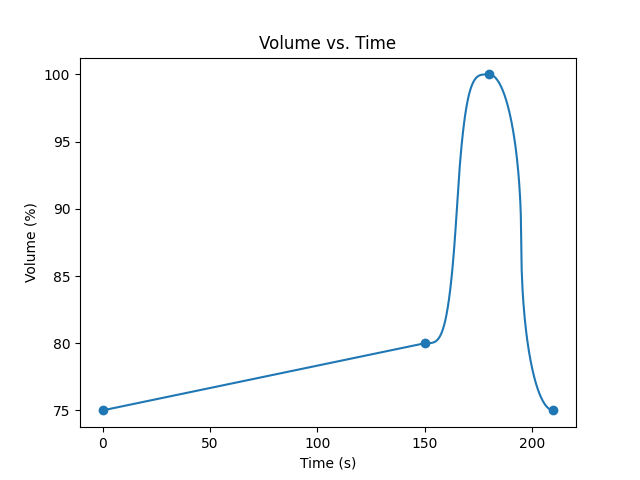
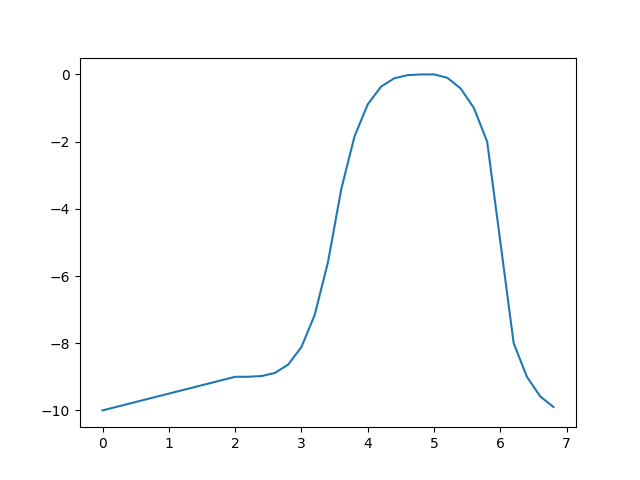
made changes

diff --git a/utils.py b/utils.py
@@ -1,30 +1,84 @@
 from easing_functions import *
+import numpy as np
+import math
+from ctypes import cast, POINTER
+from comtypes import CLSCTX_ALL
+from pycaw.pycaw import AudioUtilities, IAudioEndpointVolume
+
+devices = AudioUtilities.GetSpeakers()
+interface = devices.Activate(IAudioEndpointVolume._iid_, CLSCTX_ALL, None)
+volume = cast(interface, POINTER(IAudioEndpointVolume))
+volume.GetMute()
+volume.GetMasterVolumeLevel()
+volume.GetVolumeRange()
+
+stepSize = 0.2
+x = []
+y = []
 
 
-def getVolume(time):
-    return 50
+def init(controlPoints):
+    maxTime = controlPoints[len(controlPoints) - 1][0]
+    # len -1 because len() starts with 1 not 0
+    timeArray = np.arange(0, maxTime, stepSize)
+    global x
+    global y
+    x = timeArray.copy()
+    y = timeArray.copy()
+    for i in range(len(x)):
+        y[i] = calculateVolume(x[i], controlPoints)
+    return [x, y]
 
 
-def setVolume(volume):
-    print("setting volume to:", volume)
+def calculateVolume(time, controlPoints):
+    leftTime = 0
+    rightTime = 0
+    leftVolume = 0
+    rightVolume = 0
+    interpType = 0
+    maxTime = len(controlPoints)
+    for i in range(maxTime):
+        leftPoint = i
+        rightPoint = i + 1
+        if time >= controlPoints[leftPoint][0] and time < controlPoints[rightPoint][0]:
+            interpType = controlPoints[leftPoint][2]
+
+            leftTime = controlPoints[leftPoint][0]
+            rightTime = controlPoints[rightPoint][0]
+
+            leftVolume = controlPoints[leftPoint][1]
+            rightVolume = controlPoints[rightPoint][1]
+            break
+    return interp(leftTime, leftVolume, rightTime, rightVolume, time, interpType)
 
 
-"""
-def interp(leftTime, leftVol, rightTime, rightVol, currentTime, interpType):
+def getVolume(time):  # time = currentTime-startTime
+    global y
+    # index=(timeRoundedDown)/stepSize
+    index = math.trunc(time / stepSize) - 1
+    return round(y[index], 4)
+
+
+def setVolume(vol):
+    global volume
+    volume.SetMasterVolumeLevel(vol, None)
+    print(vol)
+
+
+def interp(leftTime, leftVolume, rightTime, rightVolume, currentTime, interpType):
 
     if interpType == 0:
-        a = LinearInOut(leftVol, rightVol, rightTime - leftTime)
+        a = LinearInOut(leftVolume, rightVolume, rightTime - leftTime)
         return a(currentTime - leftTime)
     elif interpType == 1:
-        a = SineEaseInOut(leftVol, rightVol, rightTime - leftTime)
+        a = SineEaseInOut(leftVolume, rightVolume, rightTime - leftTime)
         return a(currentTime - leftTime)
     elif interpType == 2:
-        a = CircularEaseInOut(leftVol, rightVol, rightTime - leftTime)
+        a = CircularEaseInOut(leftVolume, rightVolume, rightTime - leftTime)
         return a(currentTime - leftTime)
     elif interpType == 3:
-        a = QuarticEaseInOut(leftVol, rightVol, rightTime - leftTime)
+        a = QuarticEaseInOut(leftVolume, rightVolume, rightTime - leftTime)
         return a(currentTime - leftTime)
     elif interpType == 4:
-        a = ExponentialEaseInOut(leftVol, rightVol, rightTime - leftTime)
+        a = ExponentialEaseInOut(leftVolume, rightVolume, rightTime - leftTime)
         return a(currentTime - leftTime)
-"""

diff --git a/volumeController.py b/volumeController.py
@@ -2,18 +2,28 @@ import time
 import utils
 from easing_functions import *
 import numpy as np
-import matplotlib.pyplot as plt
+
 
 # points are in the form of
-# [time,volume,interpolation type]
-# interpType: 0=Linear,1=Quadratic,2=Circular
-controlPoints = [[0, 75, 0], [150, 80, 3], [180, 100, 2], [210, 75, -1]]
+# [time, volume, interpType]
+# interpType: 0=Linear,1=SinInOut,2=CircularInOut,3=QuarticEaseInOut,4=ExponentialEaseInOut
+# controlPoints = [[0, -10, 0], [2, -9, 3], [5, 0, 2], [7, -10, -1]]
+controlPoints = [[0, -10, 1], [2, 0, 1], [4, -10, 1], [6, 0, -1]]
 startTime = time.time()
 
+
+def restartTime():
+    global startTime
+    startTime = time.time()
+
+
+dataPlot = utils.init(controlPoints)
 
 while True:
     currentTime = time.time()
     timeElapsed = currentTime - startTime
+    if timeElapsed >= controlPoints[len(controlPoints) - 1][0]:
+        restartTime()
     newVolume = utils.getVolume(timeElapsed)
     utils.setVolume(newVolume)
-    time.sleep(1)
+    time.sleep(0.1)

diff --git a/makeGraph.py b/makeGraph.py
@@ -1,0 +1,8 @@
+import volumeController
+import utils
+import matplotlib.pyplot as plt
+
+data = volumeController.dataPlot()
+
+plt.plot(data[0], data[1])
+plt.savefig("figure.png")
